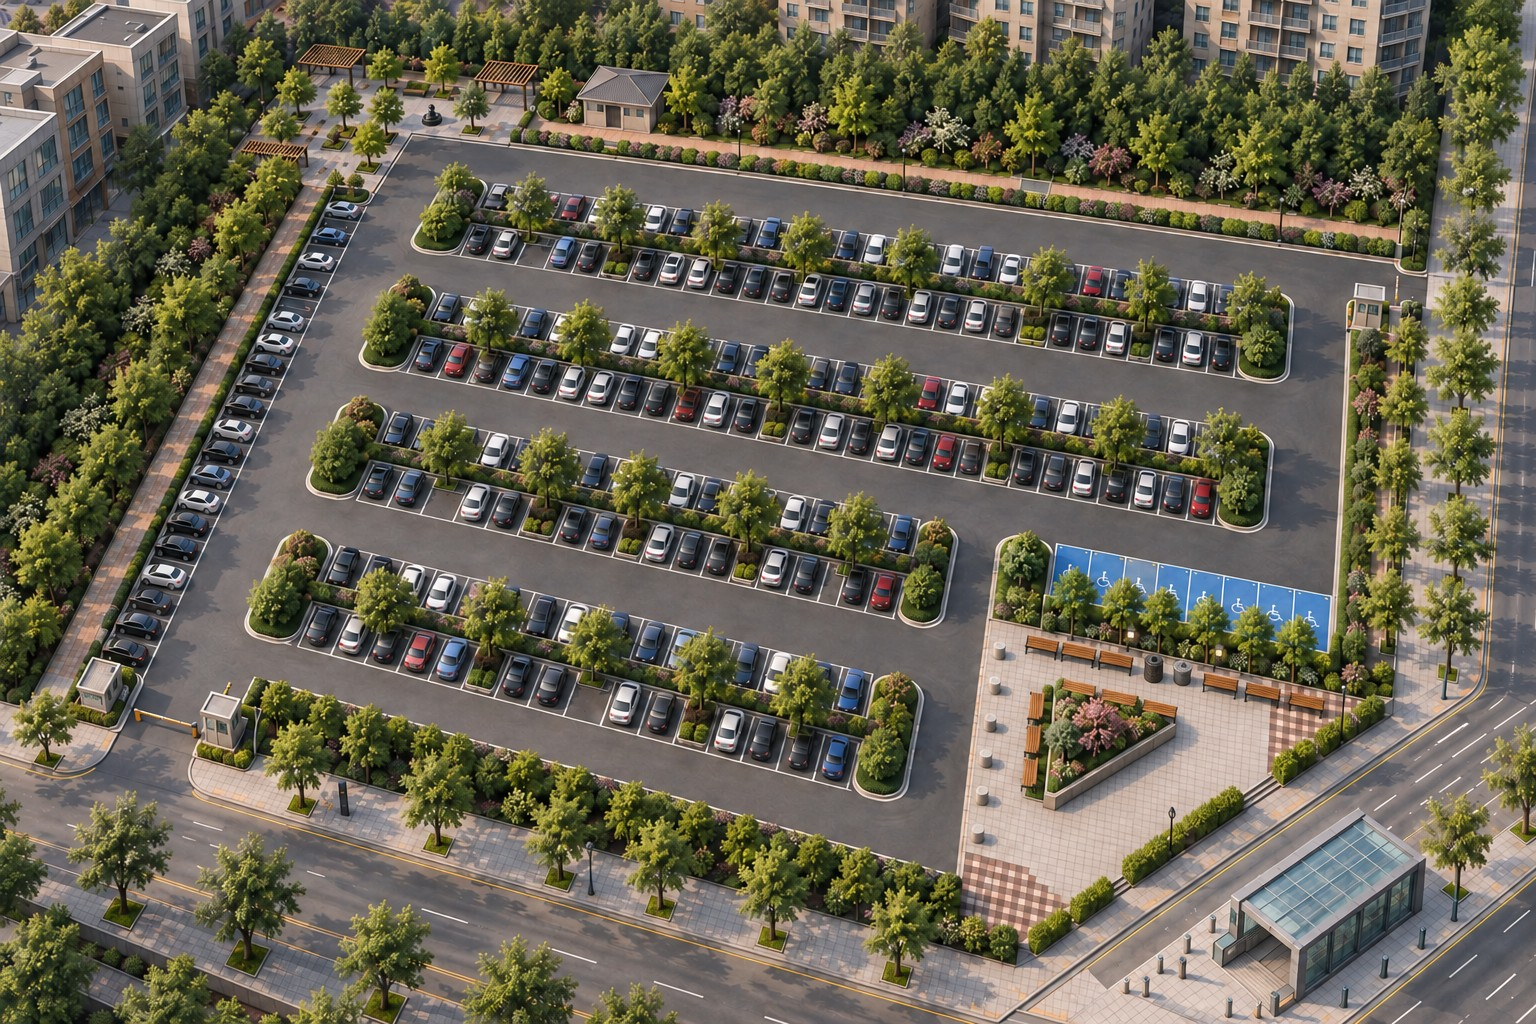
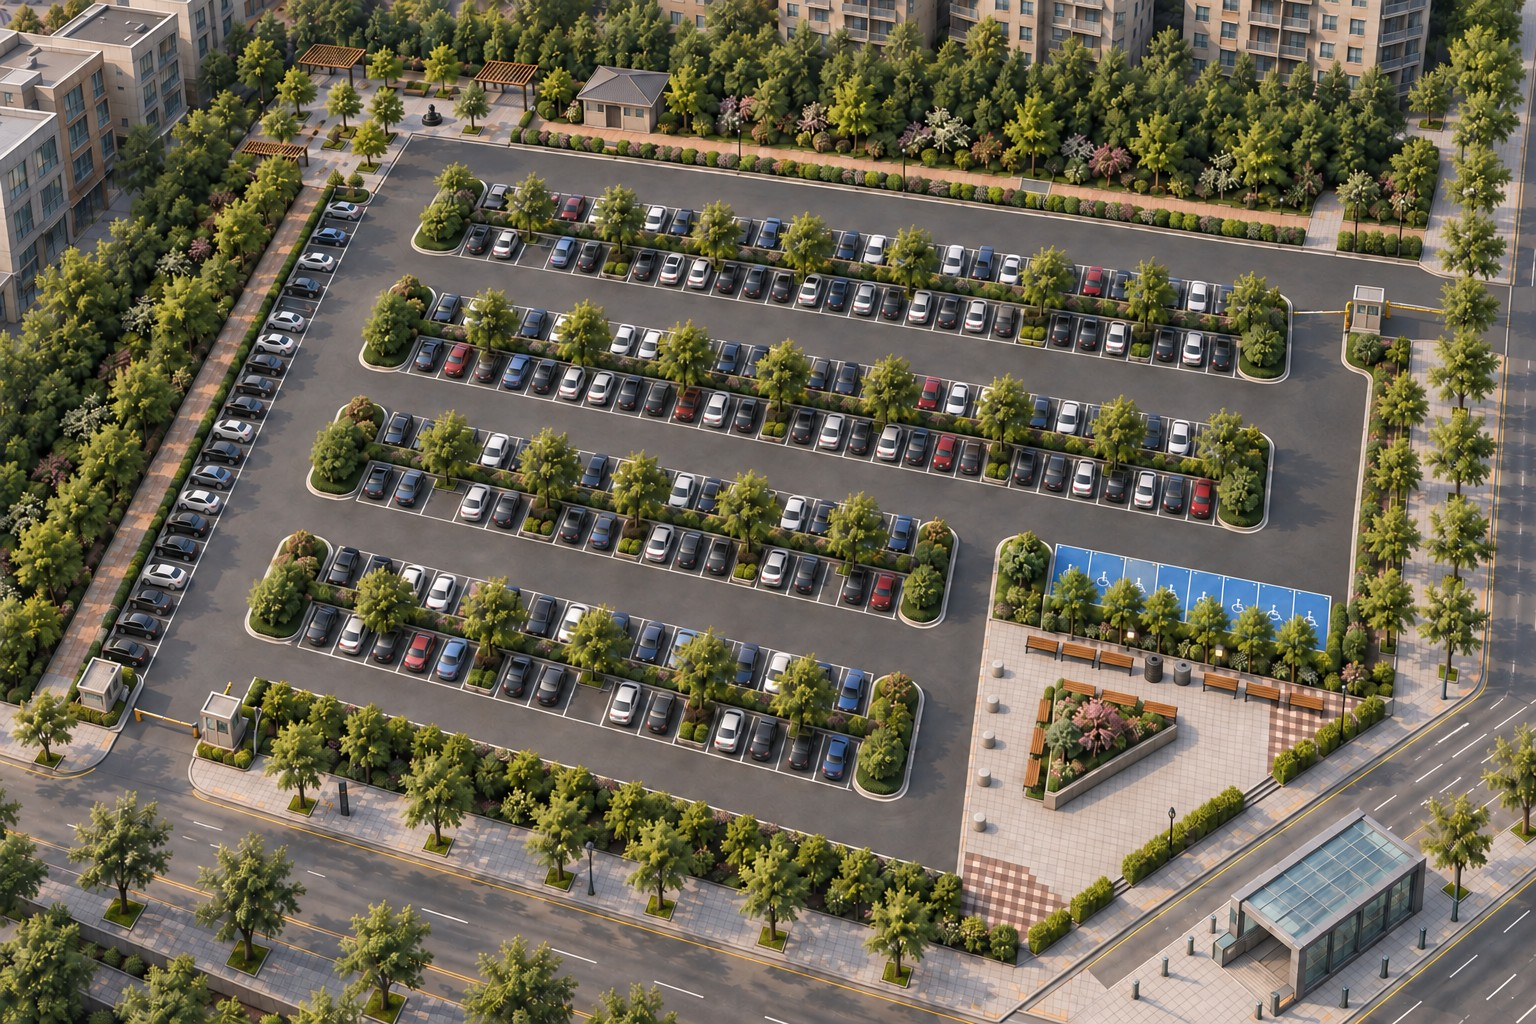
444 조감도: 북동 차량 진출입구를 열어 그린 4회차로 교체
동측 녹지대·보도가 끊기지 않아 차가 들어올 수 없었다(사용자 지적). 도면 +
3회차 그림을 주고 그 모서리만 열게 했다 — 진입로·차단기·북쪽 보행 통로.
초소가 도면의 출입구 남쪽이 아니라 진입로 가운데 선 것은 대조표에 적었다.

diff --git a/_ls_drawing_refs/444_조감도/content.md b/_ls_drawing_refs/444_조감도/content.md
@@ -1,16 +1,17 @@
 '성운' 탭의 **답안지 II · 시설물배치도**와 **답안지 III · 배식평면도**, 문제지 조건을 AI 이미지 모델에 주고 만든 **입체 조감도**입니다(2026년 9월 18일).
-위 사진의 첫 장이 **GPT**(gpt-image-2.5-sunburst, 3회차), 둘째 장이 **제미나이**(gemini-3-pro-image-preview, 2회차)입니다.
+위 사진의 첫 장이 **GPT**(gpt-image-2.5-sunburst, 4회차), 둘째 장이 **제미나이**(gemini-3-pro-image-preview, 2회차)입니다.
 
 ## 만든 방법 (GPT)
 
 1. 도면 2장(시설물배치도 · 배식평면도, 표제란은 잘라냄)을 **참고 그림**으로 주고 **1회차 프롬프트**로 그렸습니다. 배치는 도면대로 나왔으나 거의 평면이었고, 남동 광장의 벤치 줄이 2개뿐이었습니다
 2. **도면 + 1회차 그림**을 함께 주고 "배치는 그대로, 45° 입체 시점으로 다시 그리되 벤치 줄·녹지대 교목을 고치라"고 했습니다(2회차). 입체감이 생기고 배치도 유지됐습니다. 남은 것은 벤치 줄 3개(도면 6개), 삼각 화단 벤치 자리, 정원등, 볼라드 수
 3. **도면 + 2회차 그림**을 주고 광장 가구의 **개수만** 고치게 했습니다(3회차) — 벤치 줄 3+3 과 휴지통·음수대, 삼각 화단 위 3 · 왼쪽 3, 정원등 3. 볼라드는 5개를 요구했는데 7개로 남았습니다
+4. **북동 차량 출입구**를 도면과 대조하니(사용자 지적) 동측 녹지대와 보도가 끊기지 않아 차가 들어올 수 없었습니다. 도면은 북동 모서리 아래에 차량 진출입구, 그 위에 보행자 진출입구, 출입구 남쪽에 주차관리초소입니다. **도면 + 3회차 그림**을 주고 그 모서리만 열게 했습니다(4회차) — 동측 녹지대·보도를 가로지르는 진입로와 차단기, 그 북쪽에 보행 통로가 생겼습니다. 볼라드는 6개가 됐습니다
 
 > **회차마다 도면을 첫 참고 그림으로 다시 준다.** 앞 회차 그림만 주면 기준이 흐려져 조금씩 어긋납니다.
 > **마스크로 일부만 고치거나 그림을 손으로 자르고 돌리지 않는다.** 그 방법으로 한 앞선 시도는 장애인 주차칸을 옆 주차열에 맞춘다고 옮기다 순환 차로를 막고, 비스듬한 조감도에서 칸만 수평으로 세워 오히려 주변과 어긋나게 만들었습니다. 틀리면 도면과 함께 **통째로 다시 그리게** 하는 편이 확실합니다
 
-## 도면과 대조 (GPT 3회차)
+## 도면과 대조 (GPT 4회차)
 
 | 도면(성운 답안) | 결과 |
 | --- | --- |
@@ -20,9 +21,10 @@
 | 장애인 주차 8칸 — 3번째 열 동쪽, 그 열 위쪽 칸과 같은 줄, 북쪽 차로로 열림 | ✓ |
 | 서측 보행로 + 주차 1줄, 북 · 서측 12m 상록 차폐 띠, 남 · 동측 6m 가로수 | ✓ |
 | 북서 휴게광장(퍼걸러 2 · 격자 수목보호대), 북측 화장실, 주차관리소 북동 · 남서 | ✓ |
+| 북동 차량 진출입구 — 동측 광로에서 녹지대 · 보도를 끊고 들어오는 진입로, 그 북쪽 보행 진출입구 | ✓ (4회차에 고침) · 초소가 도면의 출입구 남쪽이 아니라 진입로 가운데(양쪽 차단기)에 섰습니다 |
 | 남동 광장 — 장애인 주차 아래 녹지대(교목 6 · 정원등 3), 벤치 3 + 휴지통 · 음수대 + 벤치 3 | ✓ |
 | 남동 광장 — 직각삼각형 화단(위 벤치 3 · 왼쪽 벤치 3), 북동 · 남서 모서리 체크무늬 포장 | ✓ |
-| 남동 광장 서측 볼라드 5 | **7개** — 두 번 요구했으나 안 줄었습니다 |
+| 남동 광장 서측 볼라드 5 | **6개** — 세 번 요구해 7 → 6 |
 | 북측 주거지 · 서측 상업지 · 남 · 동측 광로, 글자 없음 | ✓ |
 
 비용은 GPT 3장 약 $0.12, 제미나이 2장 약 $0.26 입니다.
@@ -85,6 +87,18 @@
     4. The stone bollards along the west edge of the plaza: EXACTLY 5, evenly spaced.
 
     Nothing else changes. Photorealistic landscape-architecture visualization. Do NOT write any text, letters, numbers, labels or signs.
+
+## 4회차 프롬프트 — GPT (참고: 시설물배치도 · 3회차 그림)
+
+    The FIRST attached image is the facilities plan of a parking park (north is up). The SECOND attached image is a 3D rendering of it that is correct in layout and camera. Reproduce the second image EXACTLY — same camera, perspective, parking rows, trees, buildings, plazas, roads, subway entrance, lighting — and change ONLY the north-east corner as follows:
+
+    1. VEHICLE ENTRANCE / EXIT on the EAST edge, near the north-east corner (as in the plan): the asphalt driveway must cut straight through the east planting strip and the sidewalk and connect to the east boulevard with a dropped curb — a clear two-lane opening about 8 m wide, with the parking attendant booth (4 x 4 m) standing on the SOUTH side of this opening and a barrier arm across the driveway. Right now the east strip and sidewalk are continuous and no car can enter from the east road — open them up. Cars should be able to drive in from the boulevard onto the ring aisle.
+
+    2. Directly NORTH of that vehicle entrance, where the pedestrian path along the north edge reaches the east sidewalk: a separate narrow PEDESTRIAN opening (about 3 m) through the planting strip, paved with the same interlocking blocks as the north path, no gate.
+
+    3. Also make the stone bollards along the west edge of the south-east plaza EXACTLY 5 (currently 7): remove two.
+
+    Nothing else changes — the south-west vehicle entrance and its booth stay as they are. Photorealistic landscape-architecture visualization. Do NOT write any text, letters, numbers, labels or signs.
 
 ## 제미나이 프롬프트 (1회차는 GPT 1회차의 앞선 판과 같고, 2회차는 아래)
 
